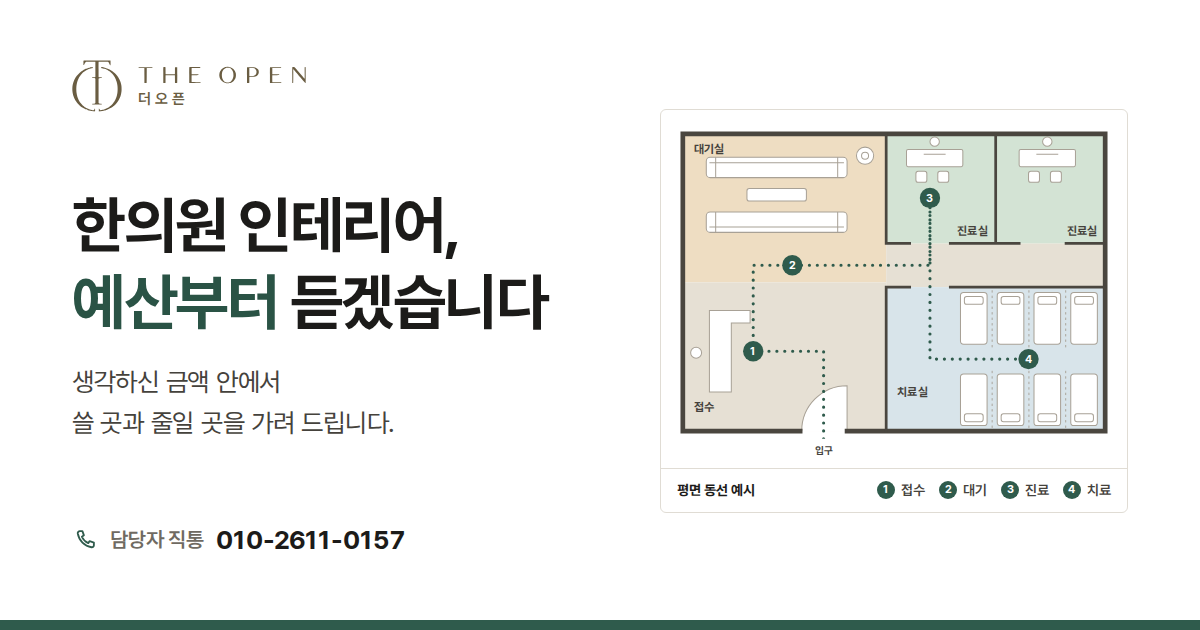
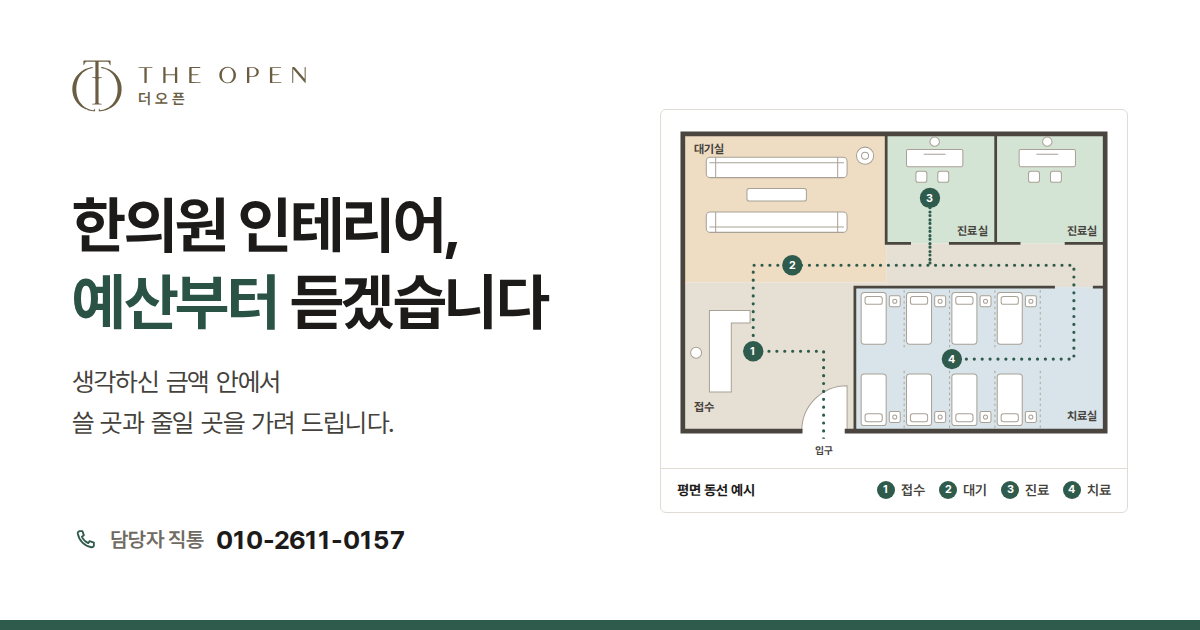
더오픈: 치료실 베드 사이에 치료기(ICT 등) 자리 — 치료실을 접수 쪽으로 넓히고 베드마다 치료기·커튼
Claude-Session: https://claude.ai/code/session_01VSQ11MicfkJHzXGFEkWumq

Changed region(s): [[0.7092, 0.4524, 0.925, 0.6937]]

diff --git a/theopen/index.html b/theopen/index.html
@@ -98,7 +98,7 @@
               <desc id="plan-d">입구로 들어와 1 접수, 2 대기, 3 진료, 4 치료 순서로 이어지는 환자 동선을 점선으로 그린 예시 평면도</desc>
               <defs>
                 <mask id="plan-mask" maskUnits="userSpaceOnUse" x="0" y="0" width="560" height="424">
-                  <path class="p-draw" pathLength="1" d="M190 400V288H100V178H326V92V298H452"/>
+                  <path class="p-draw" pathLength="1" d="M190 400V288H100V178H326V92V178H510V298H354"/>
                 </mask>
               </defs>
               <g class="p-floor">
@@ -107,7 +107,7 @@
                 <rect class="f1" x="270" y="150" width="280" height="56"/>
                 <rect class="f3" x="270" y="10" width="140" height="140"/>
                 <rect class="f3" x="410" y="10" width="140" height="140"/>
-                <rect class="f4" x="270" y="206" width="280" height="184"/>
+                <rect class="f4" x="230" y="206" width="320" height="184"/>
               </g>
               <g class="p-furn">
                 <path d="M44 236H96V252H72V340H44Z"/>
@@ -122,32 +122,40 @@
                 <rect x="440" y="30" width="72" height="22" rx="2"/><path d="M462 36H490"/>
                 <circle cx="476" cy="20" r="6"/>
                 <rect x="452" y="58" width="14" height="14" rx="3"/><rect x="480" y="58" width="14" height="14" rx="3"/>
-                <!-- 치료실 베드 8개: 두 줄로 마주 보게, 가운데 통로 -->
-                <rect x="365" y="213" width="34" height="66" rx="4"/><rect x="370" y="218" width="24" height="10" rx="3"/>
-                <rect x="412" y="213" width="34" height="66" rx="4"/><rect x="417" y="218" width="24" height="10" rx="3"/>
-                <rect x="459" y="213" width="34" height="66" rx="4"/><rect x="464" y="218" width="24" height="10" rx="3"/>
-                <rect x="506" y="213" width="34" height="66" rx="4"/><rect x="511" y="218" width="24" height="10" rx="3"/>
-                <rect x="365" y="317" width="34" height="66" rx="4"/><rect x="370" y="368" width="24" height="10" rx="3"/>
-                <rect x="412" y="317" width="34" height="66" rx="4"/><rect x="417" y="368" width="24" height="10" rx="3"/>
-                <rect x="459" y="317" width="34" height="66" rx="4"/><rect x="464" y="368" width="24" height="10" rx="3"/>
-                <rect x="506" y="317" width="34" height="66" rx="4"/><rect x="511" y="368" width="24" height="10" rx="3"/>
+                <!-- 치료실 베드 8개 (두 줄로 마주 보게) + 베드마다 옆에 치료기(ICT 등) 자리, 커튼은 자리마다 -->
+                <rect x="238" y="213" width="32" height="66" rx="4"/><rect x="243" y="218" width="22" height="10" rx="3"/>
+                <rect x="274" y="217" width="14" height="14" rx="2"/><circle cx="281" cy="224" r="2.6"/>
+                <rect x="296" y="213" width="32" height="66" rx="4"/><rect x="301" y="218" width="22" height="10" rx="3"/>
+                <rect x="332" y="217" width="14" height="14" rx="2"/><circle cx="339" cy="224" r="2.6"/>
+                <rect x="354" y="213" width="32" height="66" rx="4"/><rect x="359" y="218" width="22" height="10" rx="3"/>
+                <rect x="390" y="217" width="14" height="14" rx="2"/><circle cx="397" cy="224" r="2.6"/>
+                <rect x="412" y="213" width="32" height="66" rx="4"/><rect x="417" y="218" width="22" height="10" rx="3"/>
+                <rect x="448" y="217" width="14" height="14" rx="2"/><circle cx="455" cy="224" r="2.6"/>
+                <rect x="238" y="317" width="32" height="66" rx="4"/><rect x="243" y="368" width="22" height="10" rx="3"/>
+                <rect x="274" y="365" width="14" height="14" rx="2"/><circle cx="281" cy="372" r="2.6"/>
+                <rect x="296" y="317" width="32" height="66" rx="4"/><rect x="301" y="368" width="22" height="10" rx="3"/>
+                <rect x="332" y="365" width="14" height="14" rx="2"/><circle cx="339" cy="372" r="2.6"/>
+                <rect x="354" y="317" width="32" height="66" rx="4"/><rect x="359" y="368" width="22" height="10" rx="3"/>
+                <rect x="390" y="365" width="14" height="14" rx="2"/><circle cx="397" cy="372" r="2.6"/>
+                <rect x="412" y="317" width="32" height="66" rx="4"/><rect x="417" y="368" width="22" height="10" rx="3"/>
+                <rect x="448" y="365" width="14" height="14" rx="2"/><circle cx="455" cy="372" r="2.6"/>
                 <path d="M220 390V332A58 58 0 0 0 162 390"/>
               </g>
-              <path class="p-curtain" d="M405.5 210V283M405.5 313V386M452.5 210V283M452.5 313V386M499.5 210V283M499.5 313V386"/>
+              <path class="p-curtain" d="M293 210V283M293 313V386M351 210V283M351 313V386M409 210V283M409 313V386M467 210V283M467 313V386"/>
               <g class="p-room">
                 <text x="24" y="35">대기실</text>
                 <text x="24" y="364">접수</text>
                 <text x="400" y="140" text-anchor="end">진료실</text>
                 <text x="540" y="140" text-anchor="end">진료실</text>
-                <text x="284" y="345">치료실</text>
+                <text x="540" y="376" text-anchor="end">치료실</text>
               </g>
               <path class="p-wall p-wall--outer" pathLength="1" d="M160 390H10V10H550V390H220"/>
-              <path class="p-wall p-wall--inner" pathLength="1" d="M270 10V150M410 10V150M270 150H300M352 150H440M500 150H550M270 206H300M352 206H550M270 206V390"/>
-              <path class="p-path" mask="url(#plan-mask)" d="M190 400V288H100V178H326V92V298H452"/>
+              <path class="p-wall p-wall--inner" pathLength="1" d="M270 10V150M410 10V150M270 150H300M352 150H440M500 150H550M230 206H484M536 206H550M230 206V390"/>
+              <path class="p-path" mask="url(#plan-mask)" d="M190 400V288H100V178H326V92V178H510V298H354"/>
               <g class="p-node"><circle cx="100" cy="288" r="13"/><text x="100" y="293">1</text></g>
               <g class="p-node"><circle cx="150" cy="178" r="13"/><text x="150" y="183">2</text></g>
               <g class="p-node"><circle cx="326" cy="92" r="13"/><text x="326" y="97">3</text></g>
-              <g class="p-node"><circle cx="452" cy="298" r="13"/><text x="452" y="303">4</text></g>
+              <g class="p-node"><circle cx="354" cy="298" r="13"/><text x="354" y="303">4</text></g>
               <text class="p-entry" x="190" y="419">입구</text>
             </svg>
           </div>
@@ -317,7 +325,7 @@
             <h4>베드 사이 동선과 환기</h4>
             <ul>
               <li>원장님과 직원이 베드 사이를 부딪히지 않고 오가는지</li>
-              <li>커튼으로 나뉜 자리마다 치료기 전원을 쓸 수 있는지</li>
+              <li>커튼으로 나뉜 자리마다 ICT 같은 치료기를 놓을 공간과 전원이 있는지</li>
               <li>뜸 연기를 뺄 환기 자리가 있는지</li>
             </ul>
           </article>
@@ -328,10 +336,10 @@
               <title id="space-t">공간별로 살피는 곳을 나눠 표시한 한의원 평면 예시</title>
               <desc id="space-d">1 접수, 2 대기, 3 진료, 4 치료 공간을 나눠 표시한 예시 평면도</desc>
               <g class="z-areas">
-                <rect class="z" data-z="1" x="13" y="203" width="254" height="184"/>
+                <rect class="z" data-z="1" x="13" y="203" width="214" height="184"/>
                 <rect class="z" data-z="2" x="13" y="13" width="254" height="187"/>
                 <path class="z" data-z="3" d="M273 13H407V147H273ZM413 13H547V147H413Z"/>
-                <rect class="z" data-z="4" x="273" y="209" width="274" height="178"/>
+                <rect class="z" data-z="4" x="233" y="209" width="314" height="178"/>
               </g>
               <g class="p-furn">
                 <path d="M44 236H96V252H72V340H44Z"/>
@@ -346,32 +354,40 @@
                 <rect x="440" y="30" width="72" height="22" rx="2"/><path d="M462 36H490"/>
                 <circle cx="476" cy="20" r="6"/>
                 <rect x="452" y="58" width="14" height="14" rx="3"/><rect x="480" y="58" width="14" height="14" rx="3"/>
-                <!-- 치료실 베드 8개: 두 줄로 마주 보게, 가운데 통로 -->
-                <rect x="365" y="213" width="34" height="66" rx="4"/><rect x="370" y="218" width="24" height="10" rx="3"/>
-                <rect x="412" y="213" width="34" height="66" rx="4"/><rect x="417" y="218" width="24" height="10" rx="3"/>
-                <rect x="459" y="213" width="34" height="66" rx="4"/><rect x="464" y="218" width="24" height="10" rx="3"/>
-                <rect x="506" y="213" width="34" height="66" rx="4"/><rect x="511" y="218" width="24" height="10" rx="3"/>
-                <rect x="365" y="317" width="34" height="66" rx="4"/><rect x="370" y="368" width="24" height="10" rx="3"/>
-                <rect x="412" y="317" width="34" height="66" rx="4"/><rect x="417" y="368" width="24" height="10" rx="3"/>
-                <rect x="459" y="317" width="34" height="66" rx="4"/><rect x="464" y="368" width="24" height="10" rx="3"/>
-                <rect x="506" y="317" width="34" height="66" rx="4"/><rect x="511" y="368" width="24" height="10" rx="3"/>
+                <!-- 치료실 베드 8개 (두 줄로 마주 보게) + 베드마다 옆에 치료기(ICT 등) 자리, 커튼은 자리마다 -->
+                <rect x="238" y="213" width="32" height="66" rx="4"/><rect x="243" y="218" width="22" height="10" rx="3"/>
+                <rect x="274" y="217" width="14" height="14" rx="2"/><circle cx="281" cy="224" r="2.6"/>
+                <rect x="296" y="213" width="32" height="66" rx="4"/><rect x="301" y="218" width="22" height="10" rx="3"/>
+                <rect x="332" y="217" width="14" height="14" rx="2"/><circle cx="339" cy="224" r="2.6"/>
+                <rect x="354" y="213" width="32" height="66" rx="4"/><rect x="359" y="218" width="22" height="10" rx="3"/>
+                <rect x="390" y="217" width="14" height="14" rx="2"/><circle cx="397" cy="224" r="2.6"/>
+                <rect x="412" y="213" width="32" height="66" rx="4"/><rect x="417" y="218" width="22" height="10" rx="3"/>
+                <rect x="448" y="217" width="14" height="14" rx="2"/><circle cx="455" cy="224" r="2.6"/>
+                <rect x="238" y="317" width="32" height="66" rx="4"/><rect x="243" y="368" width="22" height="10" rx="3"/>
+                <rect x="274" y="365" width="14" height="14" rx="2"/><circle cx="281" cy="372" r="2.6"/>
+                <rect x="296" y="317" width="32" height="66" rx="4"/><rect x="301" y="368" width="22" height="10" rx="3"/>
+                <rect x="332" y="365" width="14" height="14" rx="2"/><circle cx="339" cy="372" r="2.6"/>
+                <rect x="354" y="317" width="32" height="66" rx="4"/><rect x="359" y="368" width="22" height="10" rx="3"/>
+                <rect x="390" y="365" width="14" height="14" rx="2"/><circle cx="397" cy="372" r="2.6"/>
+                <rect x="412" y="317" width="32" height="66" rx="4"/><rect x="417" y="368" width="22" height="10" rx="3"/>
+                <rect x="448" y="365" width="14" height="14" rx="2"/><circle cx="455" cy="372" r="2.6"/>
                 <path d="M220 390V332A58 58 0 0 0 162 390"/>
               </g>
-              <path class="p-curtain" d="M405.5 210V283M405.5 313V386M452.5 210V283M452.5 313V386M499.5 210V283M499.5 313V386"/>
+              <path class="p-curtain" d="M293 210V283M293 313V386M351 210V283M351 313V386M409 210V283M409 313V386M467 210V283M467 313V386"/>
               <g class="p-room">
                 <text x="24" y="35">대기실</text>
                 <text x="24" y="364">접수</text>
                 <text x="400" y="140" text-anchor="end">진료실</text>
                 <text x="540" y="140" text-anchor="end">진료실</text>
-                <text x="284" y="345">치료실</text>
+                <text x="540" y="376" text-anchor="end">치료실</text>
               </g>
               <path class="p-wall p-wall--outer" d="M160 390H10V10H550V390H220"/>
-              <path class="p-wall p-wall--inner" d="M270 10V150M410 10V150M270 150H300M352 150H440M500 150H550M270 206H300M352 206H550M270 206V390"/>
-              <path class="p-path" d="M190 400V288H100V178H326V92V298H452"/>
+              <path class="p-wall p-wall--inner" d="M270 10V150M410 10V150M270 150H300M352 150H440M500 150H550M230 206H484M536 206H550M230 206V390"/>
+              <path class="p-path" d="M190 400V288H100V178H326V92V178H510V298H354"/>
               <g class="p-node" data-z="1"><circle cx="100" cy="288" r="13"/><text x="100" y="293">1</text></g>
               <g class="p-node" data-z="2"><circle cx="150" cy="178" r="13"/><text x="150" y="183">2</text></g>
               <g class="p-node" data-z="3"><circle cx="326" cy="92" r="13"/><text x="326" y="97">3</text></g>
-              <g class="p-node" data-z="4"><circle cx="452" cy="298" r="13"/><text x="452" y="303">4</text></g>
+              <g class="p-node" data-z="4"><circle cx="354" cy="298" r="13"/><text x="354" y="303">4</text></g>
               <text class="p-entry" x="190" y="419">입구</text>
             </svg>
           </div>

diff --git a/theopen/motion.js b/theopen/motion.js
@@ -168,7 +168,7 @@
         .fromTo(furn, { autoAlpha: 0 }, { autoAlpha: 1, duration: 0.5, stagger: 0.012, ease: 'none' }, 0.95)
         .fromTo(draw, { strokeDashoffset: 1 }, { strokeDashoffset: 0, duration: 2.2, ease: 'power1.inOut' }, 1.35);
       // 번호는 점선이 그 자리에 닿을 때 (점선 길이 비율로 계산한 시각)
-      [1.92, 2.16, 2.48, 3.4].forEach(function (t, i) {
+      [1.85, 2.07, 2.34, 3.4].forEach(function (t, i) {
         drawTl.fromTo(nodes[i], { autoAlpha: 0, scale: 0.4, transformOrigin: '50% 50%' }, { autoAlpha: 1, scale: 1, duration: 0.45, ease: 'power2.out' }, t);
       });
       intro
